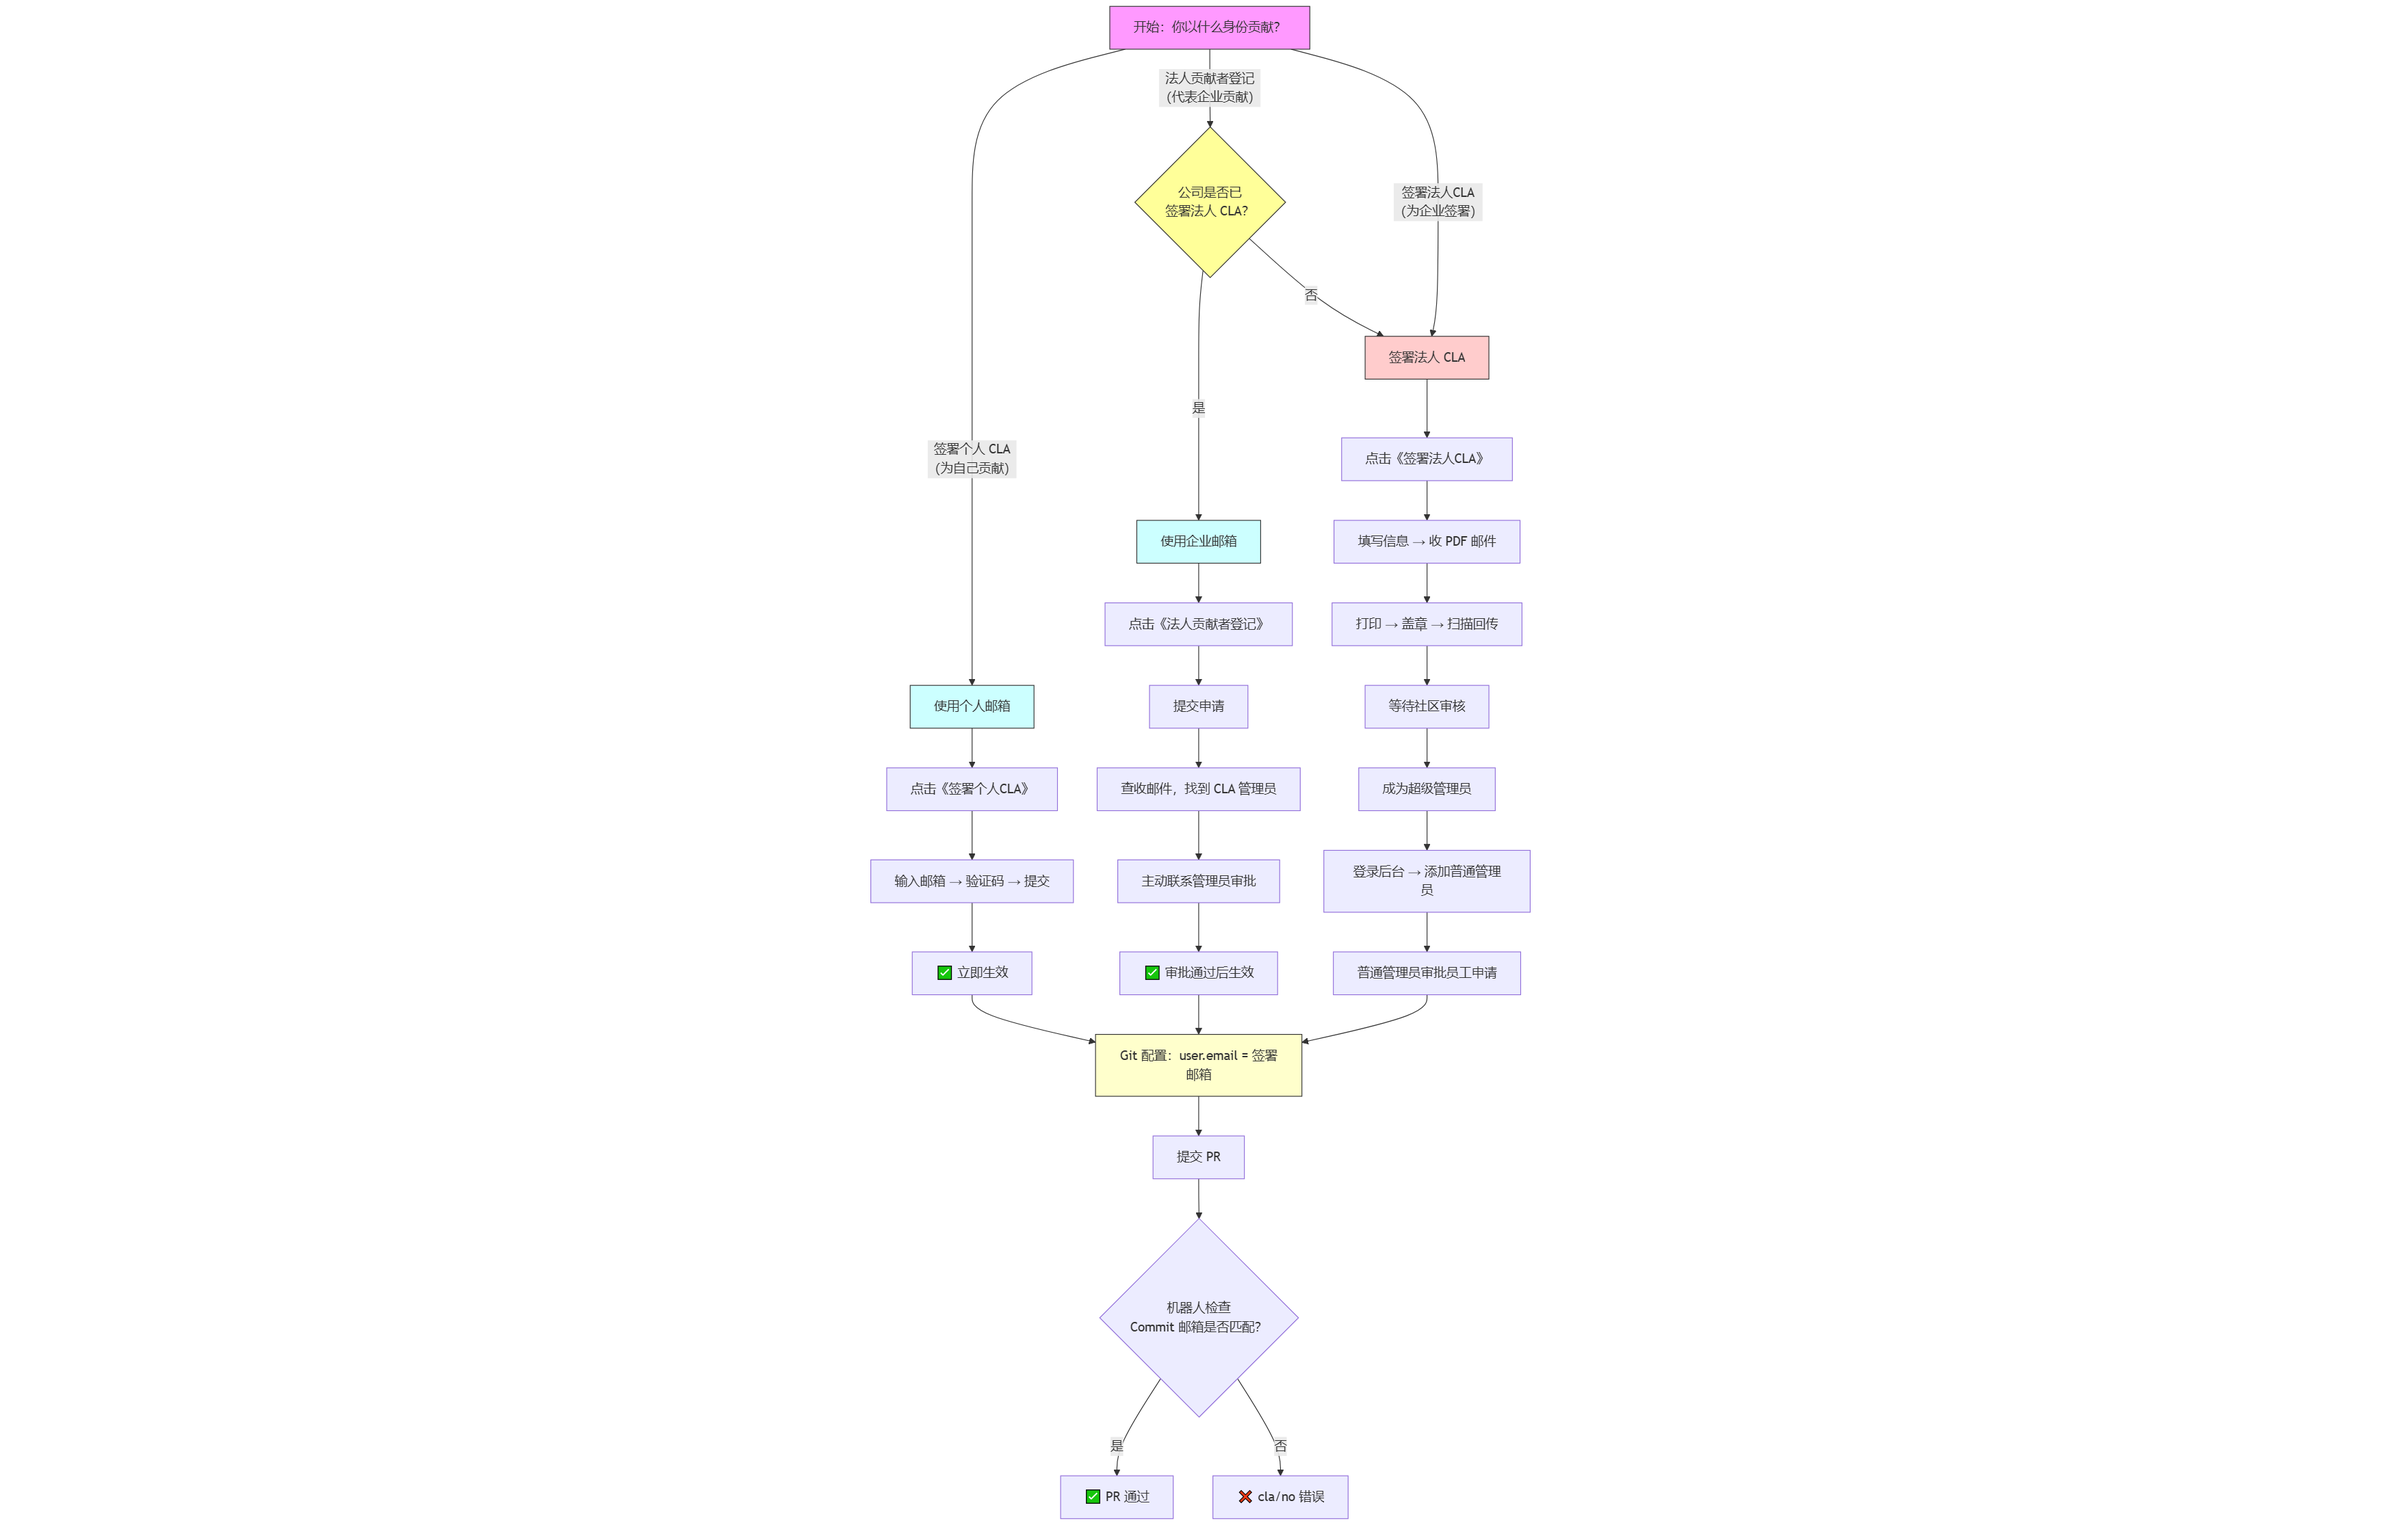
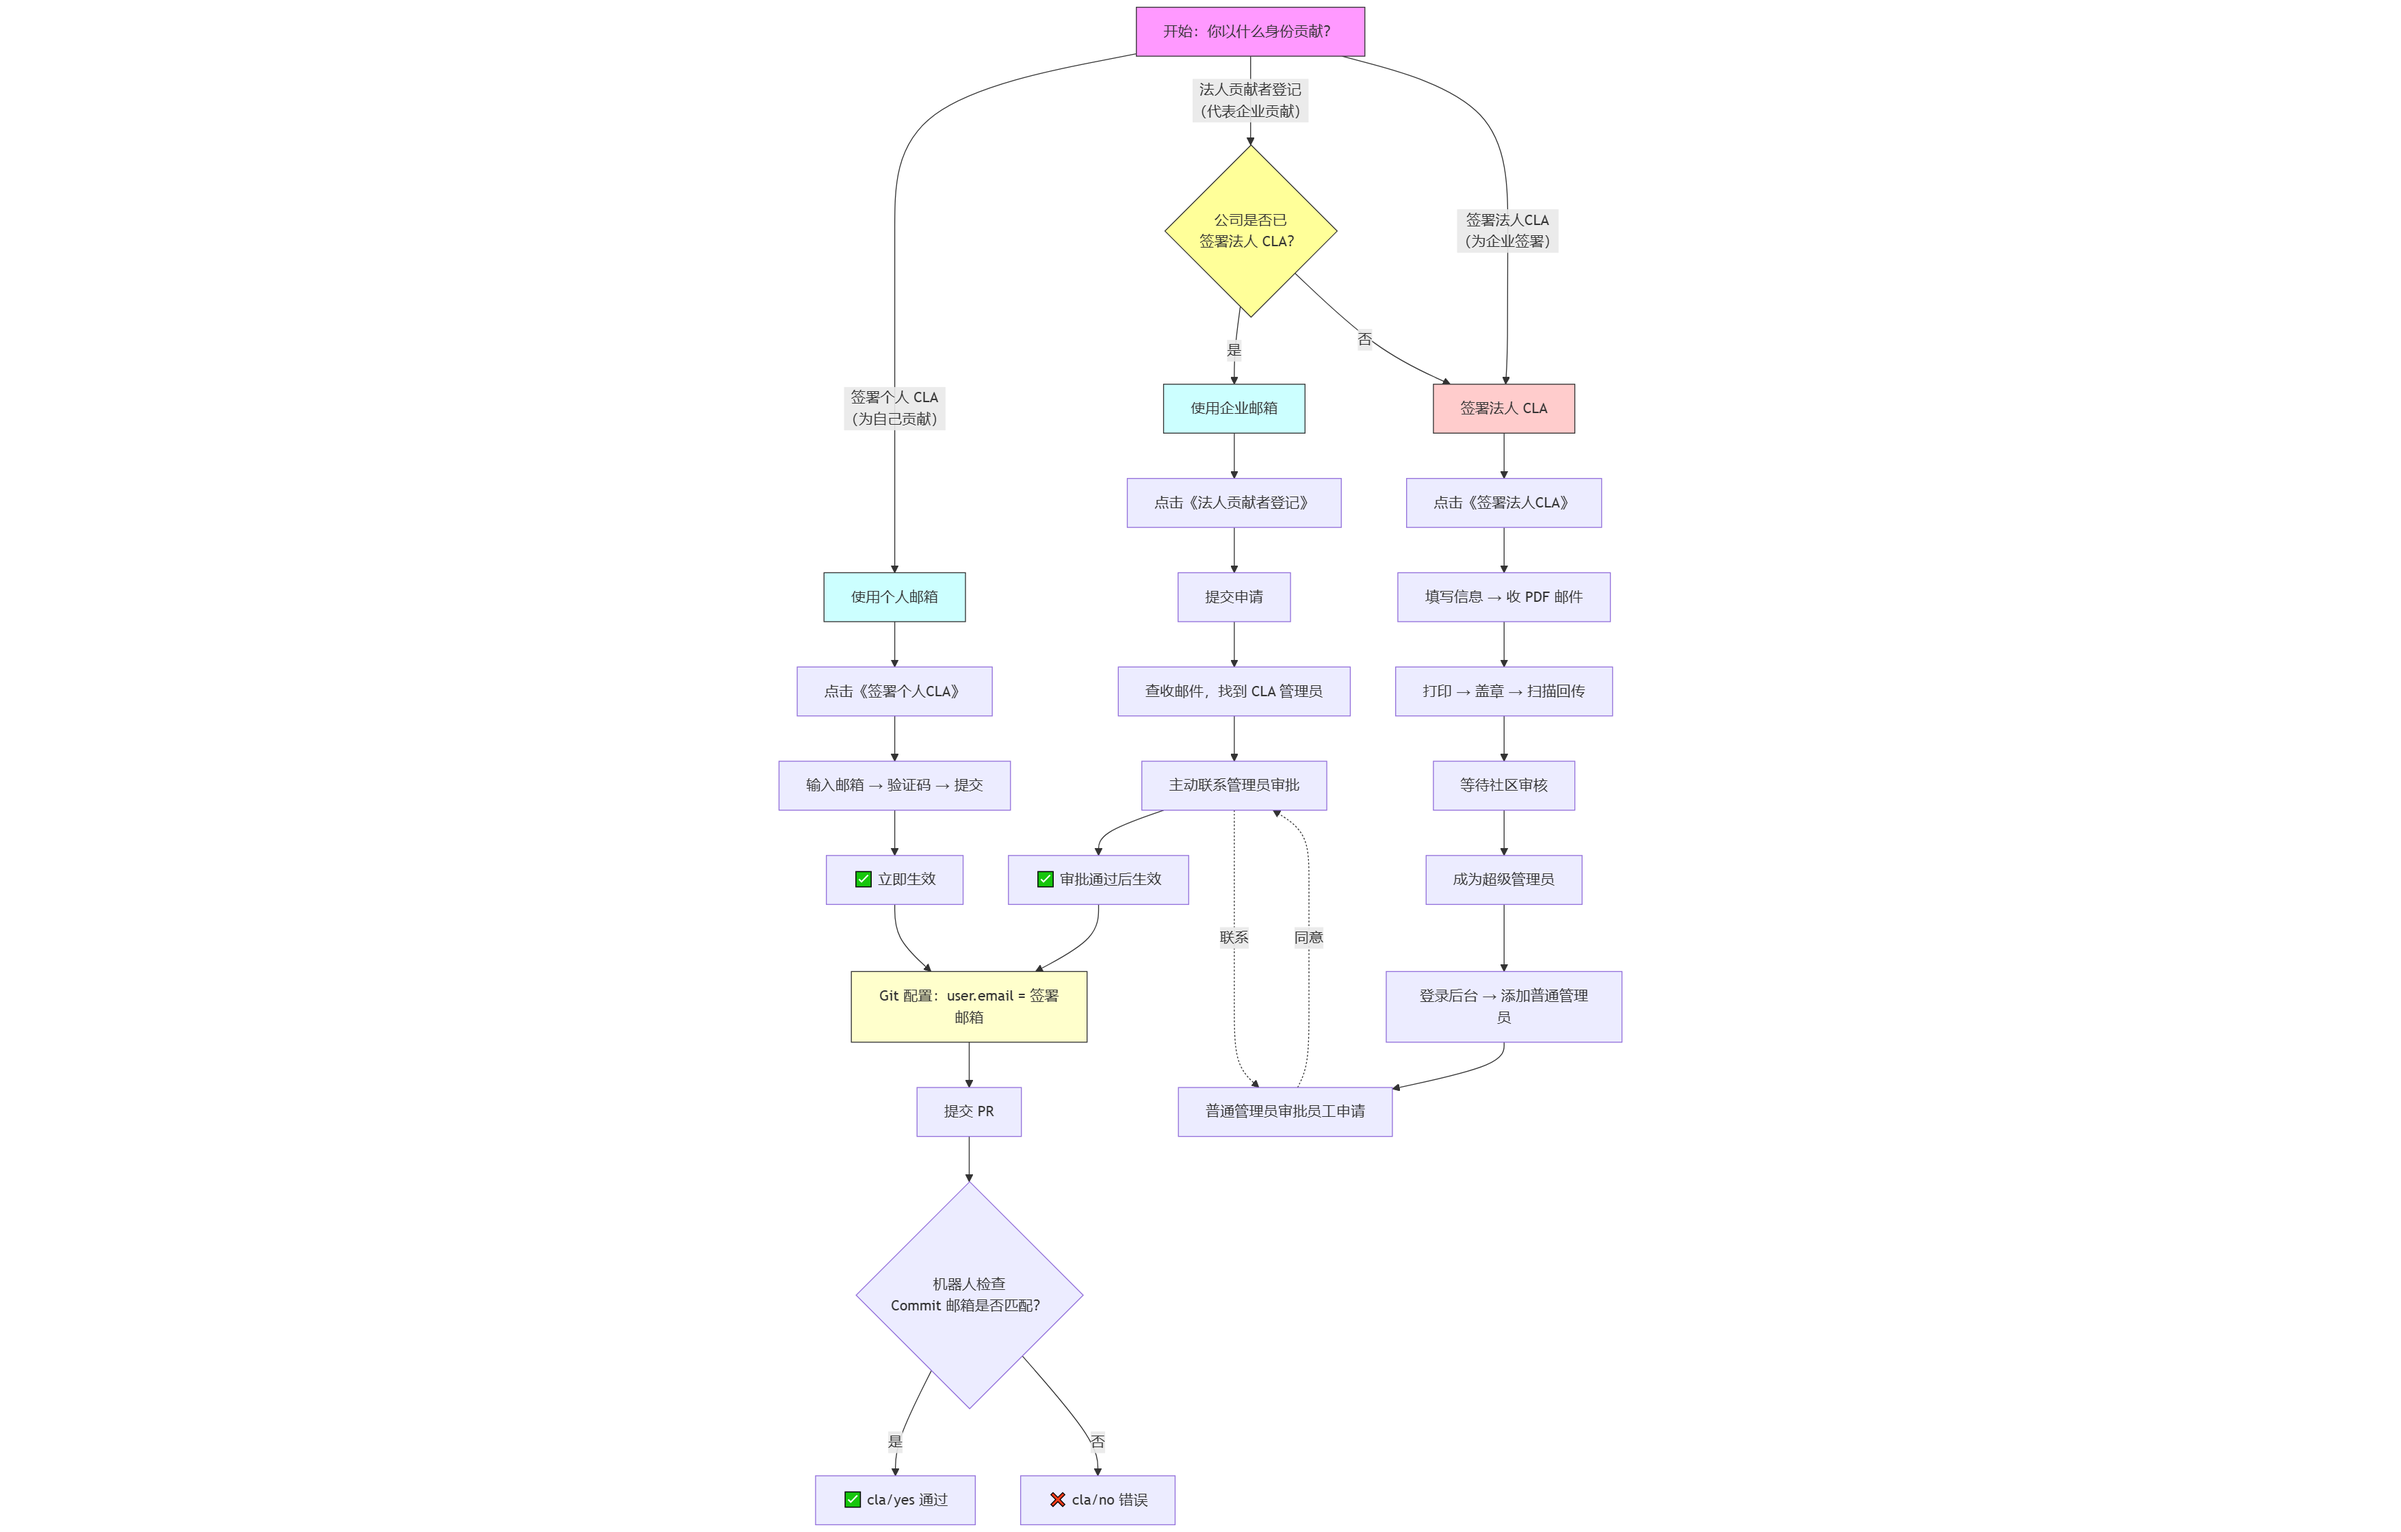
feat: 更新CLA签署流程图以及管理员登录页面展示图
# message auto-generated for no-merge-commit merge:
!33 merge feat_update_doc into master

feat: 更新CLA签署流程图以及管理员登录页面展示图

Created-by: whjnbm
Commit-by: whjnbm;tfh;yangwei999
Merged-by: ascend-robot
Description: feat: 更新CLA签署流程图以及管理员登录页面展示图

See merge request: Ascend/infrastructure!33

diff --git a/docs/cla/cla使用指南.md b/docs/cla/cla使用指南.md
@@ -1,29 +1,5 @@
 # CLA使用指南
 
-## 目录
-
-### [👉 CLA签署流程图](#cla-signing-flowchart)
-
-### [👉 Ascend社区CLA签署首页](#ascend-homepage)
-
-### [👉 我是个人开发者，为自己做贡献](#personal-contributor)
-
-### [👉 我是企业员工，代表公司做贡献](#employee-contributor)
-
-### [👉 我是企业代表，需要为公司签署](#company-representative)
-
-### [✅ CLA 签署状态验证（个人以及企业员工）](#cla-signing-status-verification)
-
-### [⚠ 重要注意事项](#important-notes)
-
-### [🔧 Git 邮箱配置](#git-email-configuration)
-
-### [❓ FAQ](#faq)
-
-### [💡 备注](#remark)
-
----
-
 <a id="cla-signing-flowchart"></a>
 ## 👉 CLA签署流程图
 
@@ -111,7 +87,7 @@
 ---
 
 <a id="company-representative"></a>
-### 🏛 我是企业代表，需要为公司签署 CLA
+## 🏛 我是企业代表，需要为公司签署 CLA
 
 ## [👉 签署法人CLA](https://clasign.osinfra.cn/sign-cla/690ca9ddf91c03dee6082ab1/corporation)
 
@@ -144,6 +120,10 @@
 
 4. **点击企业管理员，使用超级管理员或者普通管理员账号进行登录**
 
+---
+<a id="company-manager"></a>
+## 👥 我是企业管理员，负责审批员工贡献权限
+
 ### [👉 企业管理员](https://clasign.osinfra.cn/corporation-manager-login/690ca9ddf91c03dee6082ab1)
 
 
@@ -152,6 +132,14 @@
 - **超级管理员登录后页面**
 
 ![alt text](images/image-9.png)
+
+- **点击邮箱域名后页面**
+
+![alt text](images/image8.png)
+
+- **点击重置密码后页面**
+
+![alt text](images/image9.png)
 
 - **普通管理员登陆后页面**
 
